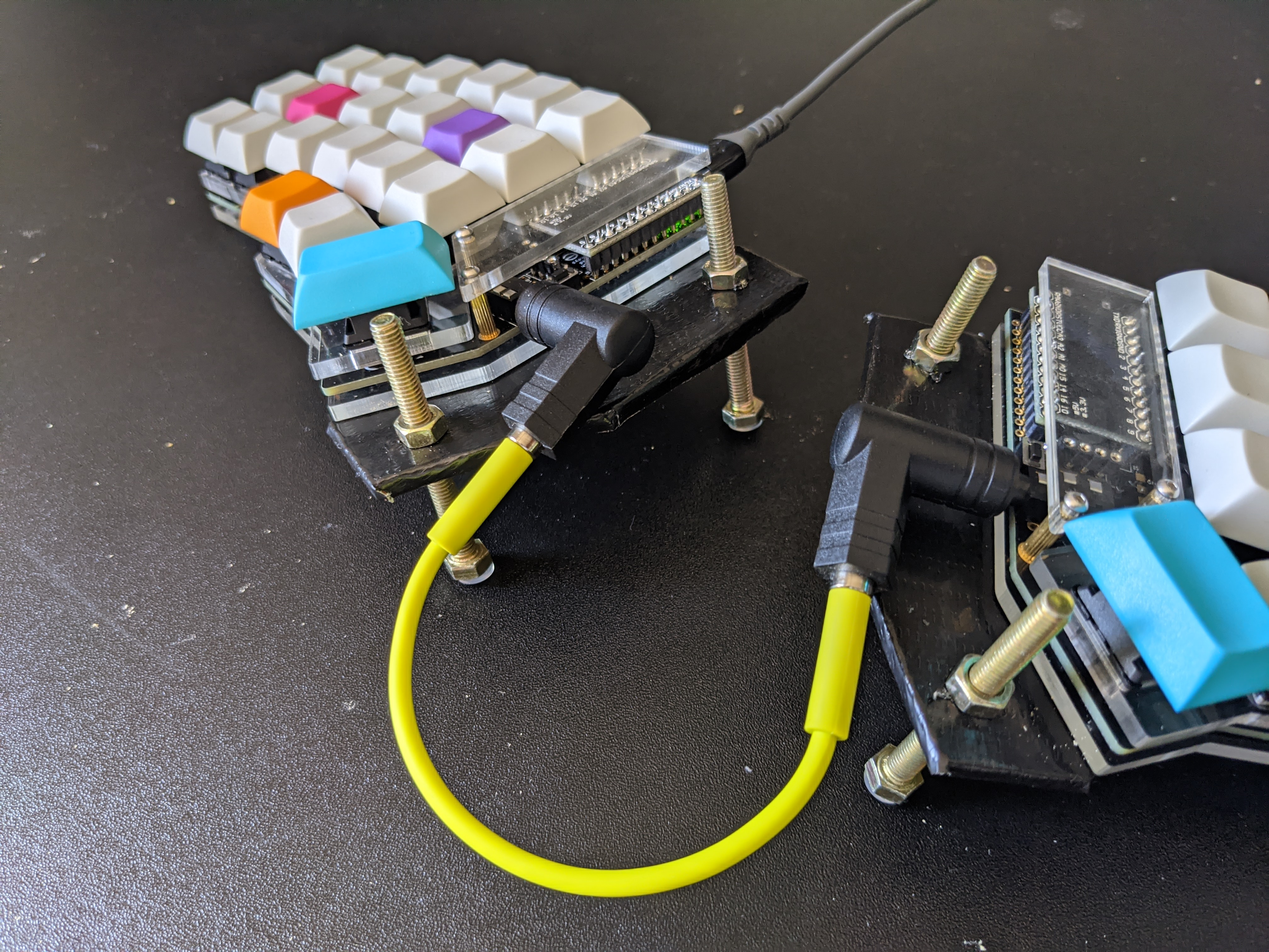
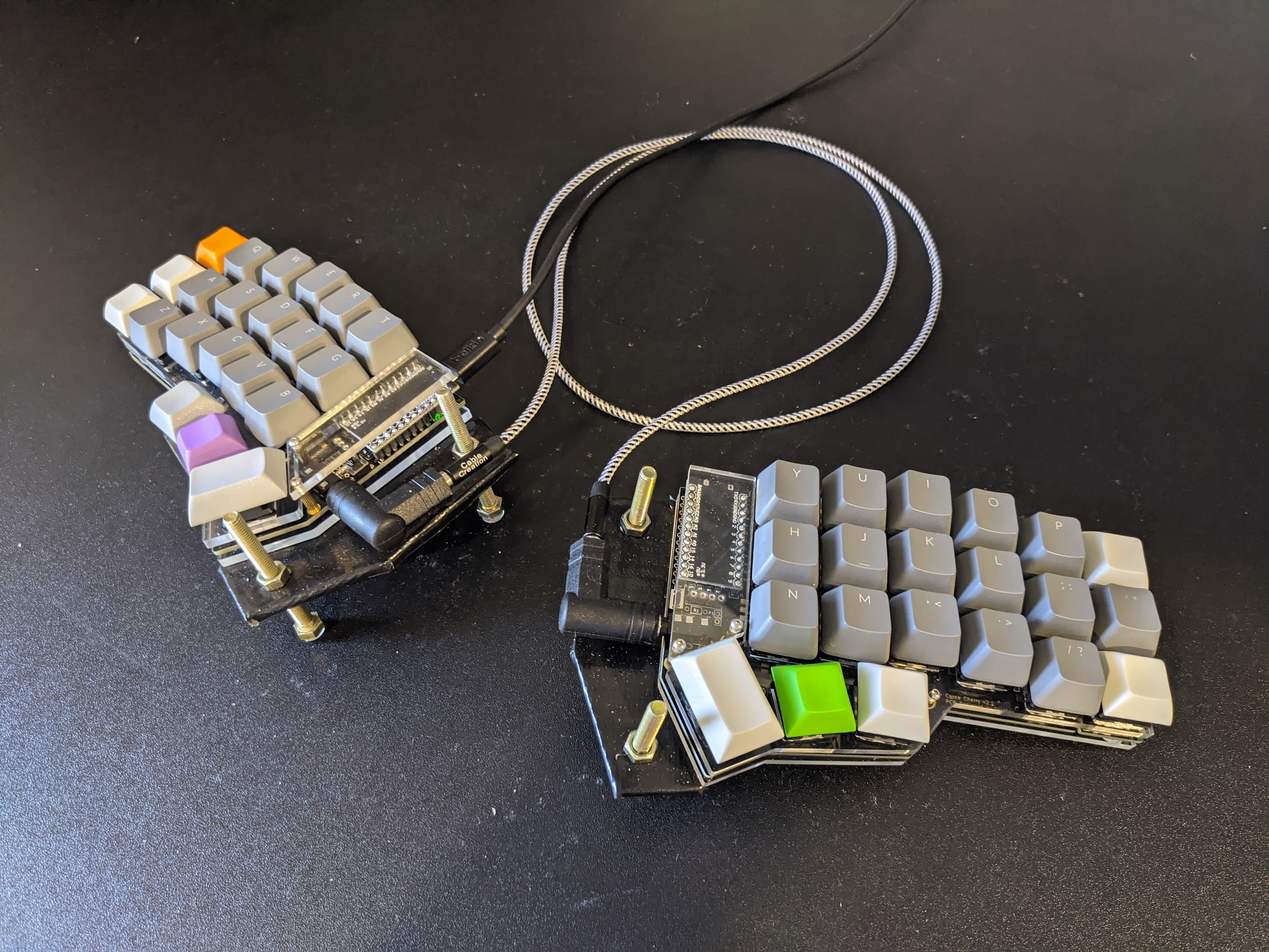
updated final build photo

diff --git a/README.md b/README.md
@@ -1,74 +1,70 @@
 CRKBD build log and configuration
 
+# Corne?
+
+The [Corne keyboard](https://github.com/foostan/crkbd) is a split keyboard with 3x6 column staggered keys and 3 thumb keys.
+
+The Corne Keyboard is an open source split ergonomic design that features a 3x6 column staggered layout with a three key thumb cluster. There are several things to unpack here:
+
+* The software and hardware designs are open source. There is no manufacturer you have to assemble the parts from a kit or manufacture them yourself.
+* The keyboard is split into two pieces, allowing for a natural wrist angle when typing.
+* The 3x6 layout means fingers resting on the home row never have to move more than one key.
+* The staggered columns provide a more resting position for the fingers on the home row and up / down movement when typing.
+* The thumb clusters move work of the pinky fingers to the thumbs.
+
+
 # Why Corne
 
+I switched from using a regular keyboard to a [Microsoft Sculpt](https://www.microsoft.com/accessories/en-us/products/keyboards/sculpt-ergonomic-desktop/l5v-00001) several years ago to help reduce RSI.
+The ergonomics were great, but I ended up replacing it every year due to wear and tear (mostly switches and stabilizers breaking or keys becoming sticky).
+Instead of replacing it a 4th time I decided to give a regular layout another go and purchased a Keychron K2.
+I would recommend the Keychron to anyone looking for a mechanical keyboard, but after several weeks I began to miss the ergonomics of the Microsoft Sculpt.
+While looking for an ergonomic mechanical keyboard I came across the [Moonlander](https://www.zsa.io/moonlander/) and [Dygma](https://dygma.com/), but I couldn't justify their price tags.
 
-Four years I switched from using a regular keyboard to a Microsoft Sculpt to reduce RSI.
-The ergonomics of the keyboard was great, but I ended up replacing it every year due to wear and tear.
-Mostly switches and stabilizers breaking or keys becoming sticky.
-Instead of replacing it a 5th time I decided to give the standard layout another go and purchased a Keychron K2.
-I would recommend the Keychron to anyone looking for a mechanical keyboard, but after several week of use I began to miss the ergonomics of the sculpt.
-So I started looking for a more ergonomic mechanical keyboard and came across products like the Moonlander and Dygma raise.
-These looked really interesting, but I couldn't bring myself to buy a keyboard quite that expensive.
+Which is when I stumbled across the Corne. It incorporates the same design features, but could be built from a kit at a fraction of the cost. After watching a few videos I decided assembling the kit wasn't beyond my soldering ability.
 
-
-Which is when I stumbled across the Corne. It incorporated the same features in its design, but could be built from a kit at a fraction of the cost.
-I had done a few small hobbyist electronics projects before and after watching a few videos decided building the keyboard wouldn't be too difficult.
-
-
-I had also been actively focusing on improving my typing technique and was looking for something with layers where I didn't need to remove my fingers from the home row.
-Additionally a few things about the standard keyboard layout started to annoy me.
+I had been using https://www.keybr.com/ to improve my typing technique and had become fascinated with the home row, 40% layouts and QMK. I was looking for something where I didn't need to move fingers from the home row and several things about the standard keyboard layout were starting to annoy me.
 * The distance from the home row to backspace and shift keys when typing.
 * The ergonomics of doing shortcuts like copy / paste one handed.
-* How the keys on the right hand are staggered to move with the angle of the arm, but the keys for the left hand are staggered in the opposite direction.
+* The way the stagger of the keys fights against the angle of the left wrist, but works with the right.
 
-
-The Corne has two 6 by 3 grids with three thumb keys.
-Which means all your fingers move at most one key from the home row while typing.
-This includes the shift and backspace keys.
-It is split, so it can be angled like the Microsoft Sculpt.
-Instead of the rows being staggered the columns are staggered, allowing your fingers to rest in a more natural position and move directly up and down when typing.
-The layout is completely customizable using QMK, allowing it to be tailored to specific programs and shortcuts. Beyond layering, QMK provides some really innovative features.
+The Corne solved these issues by being split, using staggered columns instead of rows, making better use of the thumbs and allowing layering with QMK.
 
 # Build Log
 
 ## Parts
 
-I ordered the kit + case + two pro micros from littlekeyboards.com for a total of $61 USD.
-I opted for the hot swappable socket version as as I didn't want to solder the switches directly to the board.
-I didn't buy the RGB LEDs as it is very easy to overheat them when soldering and my soldering wasn't great.
-I purchased two OLED screens, but ended up disabling and removing these.
-I would recommend getting the low profile sockets, so you don't have to solder the board to the controller, I ended up picking these up from a local electronics store.
-
-The switches and keycaps are from kbdfans.
-50 Cherry MX Brown switches cost $22.50 and I bought two packs of DSA PBT keycaps. A plain set for $19 for most of the keys and a dyed set $23.80 for a bit of additional color.
-I also ended up picking up a few screws, sockets, some resistors, and some epoxy from the local electronics store.
-
-
-The real killer was shipping cost to Australia during a Pandemic.
+* Clear Acrylic Case, Corne MX Hotswap PCB Kit, and 2 ProMicros from [littlekeyboards.com](https://www.littlekeyboards.com/collections/corne)
+  * No RGB LEDs as I had read they were easy to burn out when soldering
+  * I didn't order sockets from littlekeyboards, but ended up buying some from a local electronics store. I wanted the ability to remove the pro micro if the USB broke or I bricked it.
+  * I ordered 2 OLED screens but ended up removing them. When used with the sockets sit too tall for the covers and don't really add anything to the design. They were also broken in the release of QMK at the time.
+  * It was easier to find keycaps for the Cherry MX switches than the Kailh Low Profile Choc switches, hence the Corne MX Hotswap PCB Kit. I also wanted the option to swap the switches and this would have been a pain if they had been soldered to the board.
+* Switches and Keycaps from kbdfans.com
+  * Cherry MX brown switches, I had these on the Keychron K2 and they worked fine.
+  * [DSA PBT Plain blank keycaps](https://kbdfans.com/collections/dsa-profile/products/dsa-pbt-60-blank-keycaps)
+  * [DSA PBT Colored blank keycaps](https://kbdfans.com/collections/dsa-profile/products/dsa-pbt-dye-sub-multi-colored-keycaps?variant=34225333239947)
+* A few screws, sockets, resistors (to use the legs for the sockets), and some epoxy from the local electronics store.
 
 ## Assembly
 
-There is an official build guide on the CRKBD github page. You can also find several video guides on youtube, [this one](https://youtu.be/2xmAIC0CmGM) was my favorite. I'm not going to into great detail below as other build guides already do an excellent job.
+There is an official build guide on the CRKBD Github page. You can also find several video guides on like [this]((https://youtu.be/2xmAIC0CmGM)) one on YouTube. I won't go into great detail as other guides already do an excellent job of this.
 
-The didoes were smaller than I thought and I needed to shine a light on them at an angle to figure out their direction.
+The didoes were tiny and I needed to shine a light on them at an angle to figure out their direction.
 The easiest way to solder these and the switch sockets was to apply a tiny bit of solder to each pad, then press the components into place with tweezers while heating them to melt the solder.
-The diodes reheated quickly, with the sockets I found I needed to press the soldering iron into the corner of the pad to give a larger area for better heat transfer.
+The diodes reheated quickly, with the sockets I found I needed to press the soldering iron into the corner of the pad to ensure there was a larger area for better heat transfer.
 
 ![image info](./images/soldering-diodes.jpg)
 ![image info](./images/soldering-sockets.jpg)
 
-I applied EPoxy to the pro micro USB connectors, as they are notorious for breaking.
-I also used sockets and transistor legs to mount the pro micros so they could be removed if this happened. This does mean the pro micros sit higher than normal, which was why I ended up removing the OLED screens to fit the covers on.
+I applied EPoxy to the pro micro USB connectors as they are notorious for breaking. I also used sockets and resistor legs to mount the pro micros so they could be removed if this happened. With sockets the pro micros sit higher than normal and the OLED screens don't fit under the covers.
 
-If you are going to use transistor legs in the sockets, make sure they click into the socket before soldering them.
-On the first board two legs were too short to make a connection with the socket, causing a row of keys to not register.
-I managed to figure this out by shorting different parts of the board but it tool a while and was a pain to resolder.
+Make sure the resistor legs click into the socket before soldering them to the pro micro.
+On the first half two legs were too short to make a connection with the socket, causing a row of keys to not register.
+I managed to figure this out by shorting different parts of the board but it took a while and was a pain to remove the pro micro and de solder the pins.
 
 ![image info](./images/solder-pro-micro.jpg)
 
-On the second board I accidentally shorted one of the pro micro connectors with the reverse set of sockets, causing one key to not register.
-You can see this in the image below (5th pin down on the right hand column) and it was easy enough to unsolder.
+On the second half I accidentally shorted one of the pro micro connectors with a socket on the reverse side of the PCB, causing one key to not register. You can see this in the image below, the 5th pin down on the right hand column has some solder that connects with the col3 socket. It was easy enough to unsolder.
 
 ![image info](./images/shorted-pin.jpg)
 
@@ -77,67 +73,70 @@ The switches, keycaps and case were straight forward to assemble. I did bend the
 ![image info](./images/switches-in-plate.jpg)
 ![image info](./images/switches-and-caps.jpg)
 
-The finished board
+Fully assembled, except the screen covers.
 
 ![image info](./images/initial-done.jpg)
 
-After using the board for a few days I decided to tent / raise it so my writs are at a more natural angle.  I had difficulty finding a plate / case online and ended up cutting some wooden plates that I could screw into the existing case with some longer m2 screws. I covered these in black tape for a nicer finish and used bolts to adjust the height.
+After using the board for a few days I decided to tent it slightly. With the board flat I either needed to rotate my wrists of keep my elbows at an awkward angle. Tenting the boards your elbows to rest at your side and without putting any rotational strain through your writs. I had difficulty finding a tented plate / case online and ended up cutting some wooden plates that I could screw into the existing case with some longer m2 screws. I covered these in black tape for a cleaner finish and used bolts to adjust the height. There are .ai and .dxf files for a tented case in the Github repo but I don't have a laser cutter.
 
 ![image info](./images/tenting-diy.jpg)
-![image info](./images/done-tented-2.jpg)
+![image info](./images/done-tented.jpg)
 
+You will notice I switched back to printed keycaps. Blanks were fine for typing. But horrible when you wanted to perform a specific short cut without anchoring on the home row.
 
 # Keymap
 
-I used the default keymap for a day before starting to modify it to better fit my workflows in Windows, VS Code and typing.
+I used the default keymap for a day before starting to modify it to better fit my workflows in Windows, VS Code, word processing (email, Jira, Teams). My current layout has 4 layers that are activated by holding the center thumb cluster keys. The left thumb activates the symbol layer, the right thumb activates the navigation layer, and both activate the mouse and function layer.
 
-## Current
+## Base layer
 
-### Default
-
-* Qwerty layout, at some point I intend to try colmack or workman, but didn't want to change too much at once. With QMK it should also be easy enough to toggle between these on the keyboard instead of in the OS.
-* OSM modifiers on the left CRTL and Shift keys. These mean if you hold down the key it acts as a normal Ctrl or Shift, but if you tap it the next key press will be modified. This allows you to tap ctrl then c for copy rather than trying to hold both keys down at once with one hand. These are awesome and should be part of a standard keyboard.
-* Alt and Tab is on the sam half, allowing a single hand alt + tab action.
-* The left middle thumb key activates the symbol layer when held. The right middle thumb key activates the navigation layer when held. When both are held the mouse and function layer is activated.
-* Shift and Enter share a key, when held the key acts as shift, when tapped it acts as enter. This is super useful for typing as you can keep your fingers on the home rows and use your thumbs for space, shift and enter. The tap / hold does cause a slight delay to register the difference, this is very noticeable on some keys, but manageable when used on enter with shift.
-* Right thumb ctrl key for two handed shortcuts.
-* No escape key, this replaces tab with either layer is activated. This isn't anywhere as annoying as it sounds as the layers are activated and deactivated by your thumbs instantly.
-
+* Standard Qwerty layout.
+* OSM modifiers on the left Ctrl and Shift. When holding these down they act as normal Ctrl or Shift, when tapped they apply to the next key you press and then deactivate, when tapped three times they stay activated until tapped again. This allows you to tap Ctrl then c rather than holding both keys down at once with one hand. Or lock Ctrl like you would Shift with the caps lock key.
+* Alt + Tab can be activated with a single hand.
+* Shift and Enter share a key, when held the key acts as shift, when tapped it acts as enter. This is useful for typing as you can keep your fingers on the home rows and use your thumbs for space, shift and enter. The tap / hold configuration does cause a slight delay to register the difference between a tap and hold. While noticeable on some keys this is fine with enter.
+* Right thumb ctrl key for more ergonomic two handed shortcuts.
+* Escape and delete are missing. Tab switches to escape on all other layers and delete is present on the symbol layer.
+* A dedicated `_` key in the bottom right corner for typing in `camel_case_without_any_modifier_keys`.
 
 ![image info](./images/layer-0.png)
 
-### Navigation and Number
+## Navigation and Numpad layer
 
-The navigation and number layer is activated by holding down the right thumb.
-* The navigation key cluster is also on the right so any of the navigation keys can be accessed with one hand.
-* Special OSM ctrl + shift key so you can select and navigate by word using a single modifier key.
-* Numbers in their normal positions along the qwerty row. At some point want to experiment with a numpad style number layout on the left side of this layer.
+The navigation and numpad layer is activated by holding down the right thumb.
+
+* The navigation key cluster is also on the right allowing you to browse a document one handed.
+* Originally the numbers ran across the Querty row. These have been moved into a number pad on the left, which allows the arrow keys to sit on the home row.
+* Windows key appears on the left hand side for shortcuts windows + direction shortcuts.
 
 ![image info](./images/layer-1.png)
 
-### Symbol
+## Symbol layer
 
-The symbol layer is activted by holding down the left thumb.
-* Symbols in there normal positions along the qwerty row. Very similar to how you press shift to access these normally. Except you don't have to stretch as far as they are one row lower and you are using your thumb and not your pinky to hold shift.
-* Same modifier keys as navigation and number row for shortcuts like (ctrl, shift, + / - ) to resize text.
-* Additional alt key as you left thumb is already holding down the modifier key and won't be able to press an additional key.
+The symbol layer is activated by holding down the left thumb.
+
+* Shift + number symbols are in their relative positions along the qwerty row.
+* Modifier keys are in the same place on all layers for shortcuts like Ctrl + Shift + `+`.
+* Atl key moved from the thumb cluster as the left thumb is already used to activate this layer.
+* No symbol requires shift to access, which makes them no more awkward than on a normal keyboard. Shift + 9 for ( becomes symbol + `o`.
 
 ![image info](./images/layer-2.png)
 
-### Mouse and function
+## Function layer
 
 * Function keys where the corresponding numbers would be, with the exception of F12, which moves down one.
-* OSM left alt key specifically for shortcuts like atl + F4.
-* Keys for moving the mouse where the navigation keys are, speed modification and clicking on the left side. I haven't really found a use for these, but they are handy if you quickly want to focus a window or move the cursor across the page without taking your hand off the keyboard.
+* Contains infrequently used and some media keys.
 
 ![image info](./images/layer-3.png)
 
 
-### Lessons
-* Try not to move modifier keys around between the the layers. Originally I had most of these switching to fit around other keys and perform specific shortcuts. For example at one stage I used the four home row keys on non default layers for modifiers, but my muscle memory kept trying to use the ctrl and shift keys from the default layer I was using seconds earlier.
-* One handed short cuts. It isn't natural to have both hands hovering over the home row at all times. Make common shortcuts like ctrl+c, alt+tab and down easy to preform with one hand.
-* Don't overuse tab / hold keys, there is a necessary delay when using these to differentiate between a tap and a hold. This is fine on some keys like shift + enter. But I tried using shift on hold on the f + j keys, and the delay would make it look like these keys had not been pressed for a few hundred ms and when typing quickly I would accidentally caps other keys by pressing them before releasing shift.
+## Lessons
 
+* Keep the modifier keys in the same places across layers. I had most of these switching places to fit around other keys and perform specific shortcuts. At one stage I tried using the four home row keys on non default layers for modifiers, but my muscle memory kept using the Ctrl and Shift keys from the default layer.
+* It isn't natural to constantly use a computer with both hands glued to the home row. Figure out what one handed functionality you need to keep. Mine were ctrl + c/v/a/s/f, alt + tab, and up / down / left / right.
+* Don't overuse osm or tab and hold combo keys. There is a delay when using these to differentiate between a tap and a hold. This is fine on some keys like shift + enter. But when I tried using shift when holding the f and j key the delay was too annoying.
+* Touch typing with blanks is fine, but doing anything else is a pain. Especially when you are hunting for a specific key for a shortcut or symbol one handed.
+* Don't do too much with one hand. At one stage I had modifier key on the right navigation layer. The idea was to toggle Shift / Ctrl and then use the arrows, but I kept accidentally toggling. You normally use a second hand for modifiers when navigating on a standard keyboard anyway.
+* Mouse keys were a fun gamic, but I couldn't find a good use for them. I had these on the function layer for a while.
 
 # Useful Commands
 
